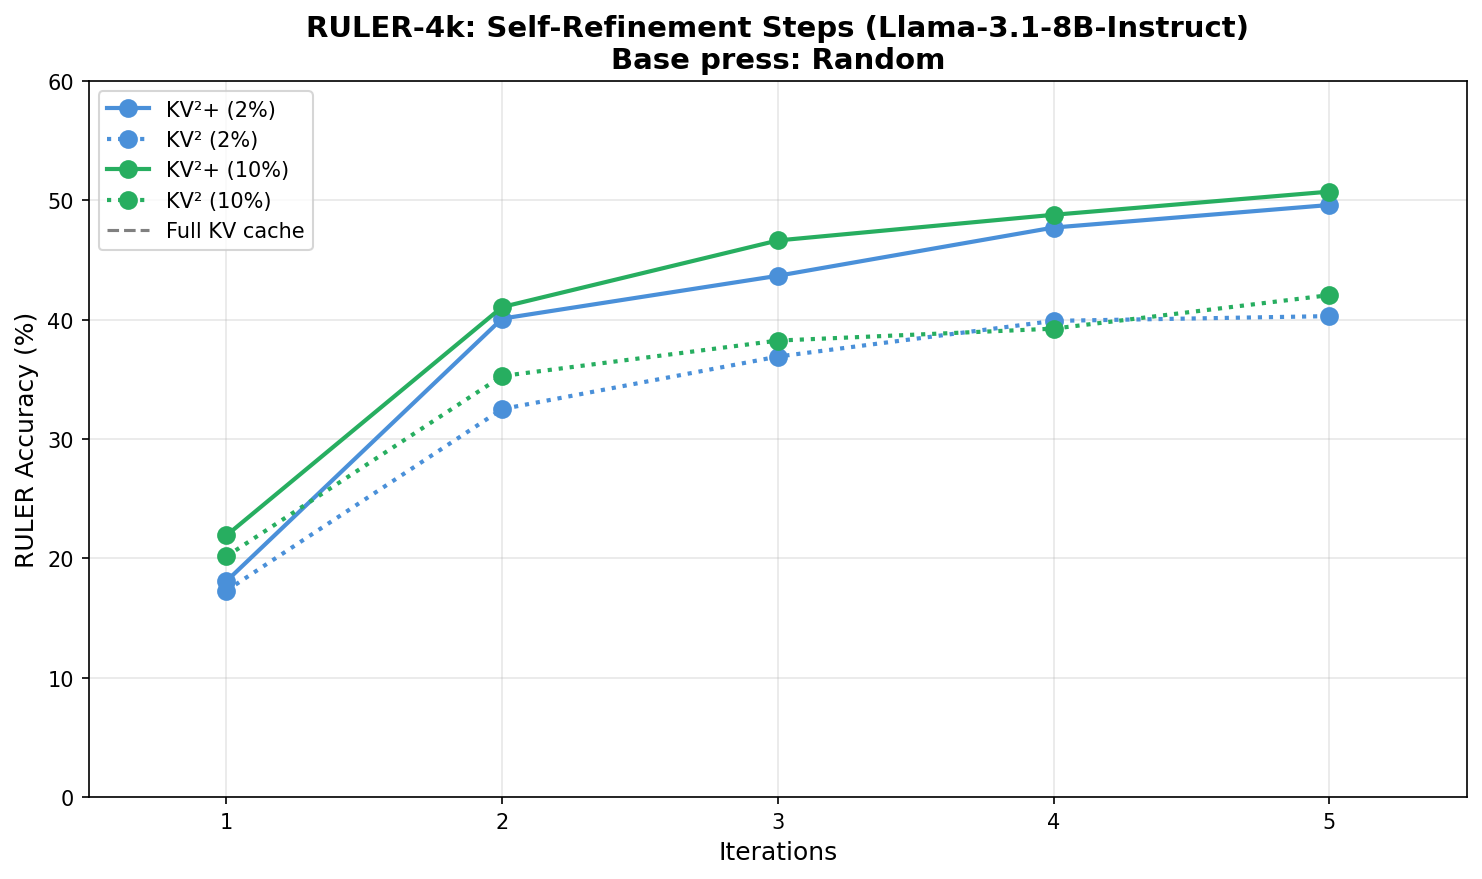
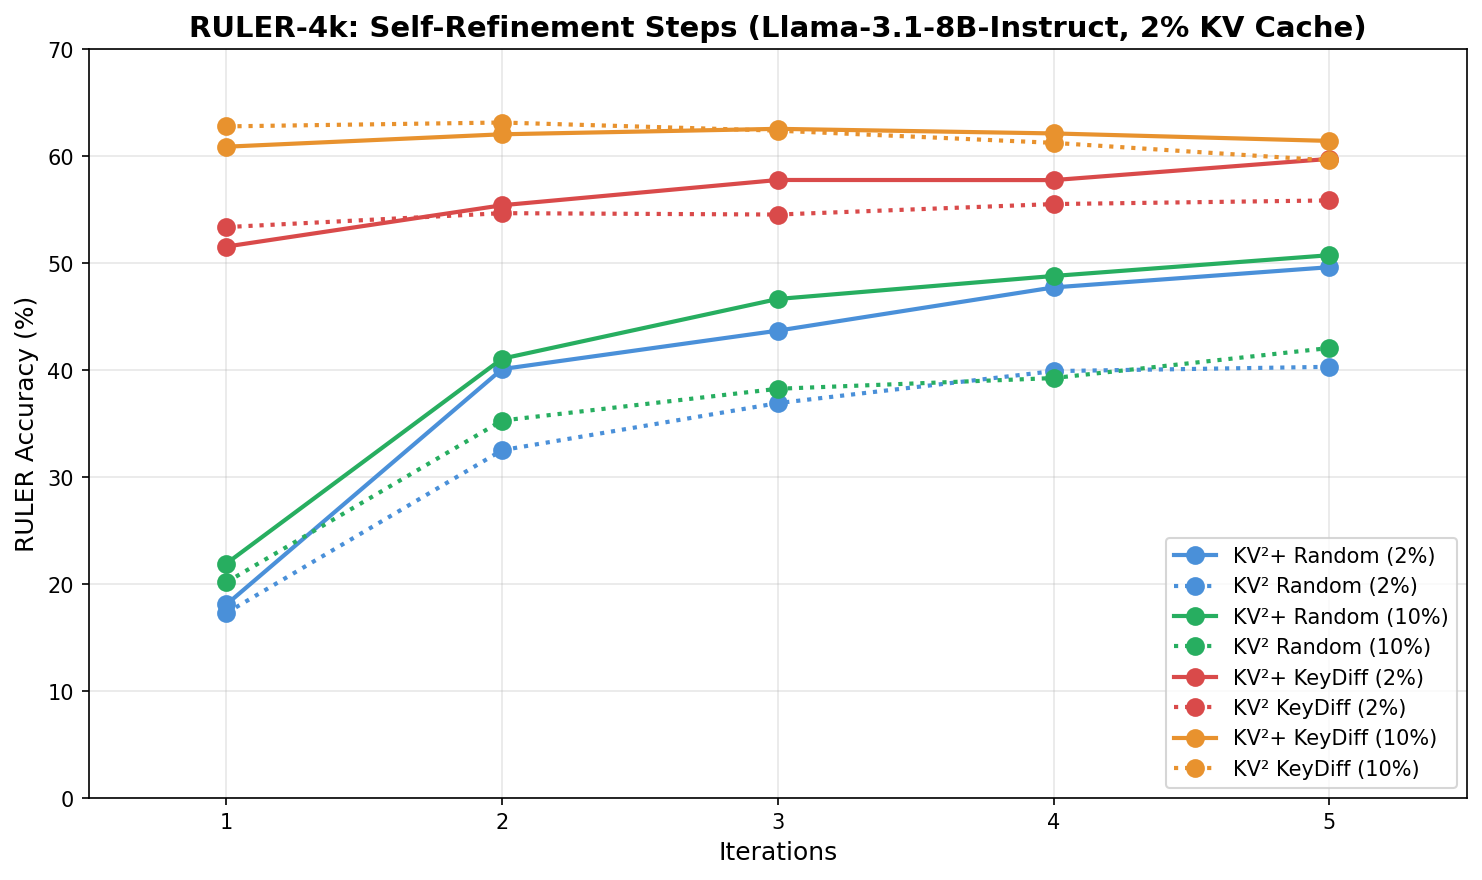
feat: move plot files

diff --git a/plots/plot_iterative_ruler.py b/plots/plot_iterative_ruler.py
@@ -1,28 +1,36 @@
 #!/usr/bin/env python3
 """
 Plot RULER accuracy vs number of self-refinement iterations (1–5).
-Data from the second table in iterative_ruler.tex (Random 2% and Random 10%).
-Four lines: KV²+ and KV² for 2% and 10%; blue for 2%, green for 10%;
-KV²+ solid, KV² dotted.
+Data from iterative_ruler.tex. Eight lines total:
+  Random:  blue (2%), green (10%); KV²+ solid, KV² dotted
+  KeyDiff: red  (2%), orange(10%); KV²+ solid, KV² dotted
 Run: python plot_iterative_ruler.py
 """
 
 import matplotlib.pyplot as plt
 
 # =============================================================================
-# DATA FROM iterative_ruler.tex (second table: Self-Refinement Steps)
+# DATA FROM iterative_ruler.tex
 # =============================================================================
 # X = iterations 1–5, Y = Avg. (RULER accuracy %)
 
 ITERATIONS = [1, 2, 3, 4, 5]
 
 # Random 2%: KV² and KV²+
-KV2_2PCT = [17.3, 32.51, 36.91, 39.90, 40.30]
-KV2_PLUS_2PCT = [18.09, 40.09, 43.68, 47.72, 49.61]
+KV2_RAND_2PCT = [17.3, 32.51, 36.91, 39.90, 40.30]
+KV2_PLUS_RAND_2PCT = [18.09, 40.09, 43.68, 47.72, 49.61]
 
 # Random 10%: KV² and KV²+
-KV2_10PCT = [20.17, 35.28, 38.25, 39.25, 42.06]
-KV2_PLUS_10PCT = [21.92, 41.06, 46.64, 48.79, 50.73]
+KV2_RAND_10PCT = [20.17, 35.28, 38.25, 39.25, 42.06]
+KV2_PLUS_RAND_10PCT = [21.92, 41.06, 46.64, 48.79, 50.73]
+
+# KeyDiff 2%: KV² and KV²+
+KV2_KD_2PCT = [53.36, 54.66, 54.53, 55.51, 55.85]
+KV2_PLUS_KD_2PCT = [51.54, 55.40, 57.76, 57.75, 59.73]
+
+# KeyDiff 10%: KV² and KV²+
+KV2_KD_10PCT = [62.77, 63.13, 62.37, 61.23, 59.59]
+KV2_PLUS_KD_10PCT = [60.87, 62.03, 62.54, 62.11, 61.41]
 
 FULL_SCORE = 95.61  # Full KV cache baseline (Llama-3.1-8B-Instruct)
 
@@ -34,9 +42,10 @@ FIGSIZE = (10, 6)
 XLABEL = "Iterations"
 YLABEL = "RULER Accuracy (%)"
 
-# Blue for 2%, green for 10%
-COLOR_2PCT = "#4A90D9"
-COLOR_10PCT = "#27AE60"
+COLOR_RAND_2PCT = "#4A90D9"
+COLOR_RAND_10PCT = "#27AE60"
+COLOR_KD_2PCT = "#D94A4A"
+COLOR_KD_10PCT = "#E8922E"
 
 # =============================================================================
 # PLOTTING
@@ -46,70 +55,43 @@ COLOR_10PCT = "#27AE60"
 def main():
     plt.figure(figsize=FIGSIZE)
 
-    # KV²+ 2% — solid blue
-    plt.plot(
-        ITERATIONS,
-        KV2_PLUS_2PCT,
-        label="KV²+ (2%)",
-        color=COLOR_2PCT,
-        linestyle="-",
-        marker="o",
-        markersize=8,
-        linewidth=2,
-    )
-    # KV² 2% — dotted blue
-    plt.plot(
-        ITERATIONS,
-        KV2_2PCT,
-        label="KV² (2%)",
-        color=COLOR_2PCT,
-        linestyle=":",
-        marker="o",
-        markersize=8,
-        linewidth=2,
-    )
-    # KV²+ 10% — solid green
-    plt.plot(
-        ITERATIONS,
-        KV2_PLUS_10PCT,
-        label="KV²+ (10%)",
-        color=COLOR_10PCT,
-        linestyle="-",
-        marker="o",
-        markersize=8,
-        linewidth=2,
-    )
-    # KV² 10% — dotted green
-    plt.plot(
-        ITERATIONS,
-        KV2_10PCT,
-        label="KV² (10%)",
-        color=COLOR_10PCT,
-        linestyle=":",
-        marker="o",
-        markersize=8,
-        linewidth=2,
-    )
+    mk = dict(marker="o", markersize=8, linewidth=2)
 
-    plt.axhline(
-        y=FULL_SCORE,
-        color="gray",
-        linestyle="--",
-        linewidth=1.5,
-        label="Full KV cache",
-    )
+    # Random 2% — blue
+    plt.plot(ITERATIONS, KV2_PLUS_RAND_2PCT, label="KV²+ Random (2%)",
+             color=COLOR_RAND_2PCT, linestyle="-", **mk)
+    plt.plot(ITERATIONS, KV2_RAND_2PCT, label="KV² Random (2%)",
+             color=COLOR_RAND_2PCT, linestyle=":", **mk)
+
+    # Random 10% — green
+    plt.plot(ITERATIONS, KV2_PLUS_RAND_10PCT, label="KV²+ Random (10%)",
+             color=COLOR_RAND_10PCT, linestyle="-", **mk)
+    plt.plot(ITERATIONS, KV2_RAND_10PCT, label="KV² Random (10%)",
+             color=COLOR_RAND_10PCT, linestyle=":", **mk)
+
+    # KeyDiff 2% — red
+    plt.plot(ITERATIONS, KV2_PLUS_KD_2PCT, label="KV²+ KeyDiff (2%)",
+             color=COLOR_KD_2PCT, linestyle="-", **mk)
+    plt.plot(ITERATIONS, KV2_KD_2PCT, label="KV² KeyDiff (2%)",
+             color=COLOR_KD_2PCT, linestyle=":", **mk)
+
+    # KeyDiff 10% — orange
+    plt.plot(ITERATIONS, KV2_PLUS_KD_10PCT, label="KV²+ KeyDiff (10%)",
+             color=COLOR_KD_10PCT, linestyle="-", **mk)
+    plt.plot(ITERATIONS, KV2_KD_10PCT, label="KV² KeyDiff (10%)",
+             color=COLOR_KD_10PCT, linestyle=":", **mk)
 
     plt.xlabel(XLABEL, fontsize=12)
     plt.ylabel(YLABEL, fontsize=12)
     plt.title(
-        "RULER-4k: Self-Refinement Steps (Llama-3.1-8B-Instruct)\nBase press: Random",
+        "RULER-4k: Self-Refinement Steps (Llama-3.1-8B-Instruct, 2% KV Cache)",
         fontsize=14,
         fontweight="bold",
     )
     plt.legend(loc="best", fontsize=10)
     plt.grid(True, alpha=0.3)
     plt.xlim(0.5, 5.5)
-    plt.ylim(0, 60)
+    plt.ylim(0, 70)
     plt.xticks(ITERATIONS)
 
     plt.tight_layout()

diff --git a/plots/iterative_ruler.tex b/plots/iterative_ruler.tex
@@ -66,7 +66,7 @@ Full
 
 
 \midrule
-\multicolumn{15}{c}{\textit{KeyDiff}} \\
+\multicolumn{15}{c}{\textit{KeyDiff 2\%}} \\
 \midrule
     
 KV²(KeyDiff 2\%) 
@@ -78,14 +78,90 @@ KV²(KeyDiff 2\%)
     & 29.27
     & 53.36 \\
 
-KV²(KeyDiff 5\%) 
-    & 15.81 & 71.33 
-    & 83.33 & 0.0 & 0.0
+KV²(KeyDiff 2 $\times$ 2\%) 
+    & 15.35 & 74.0 
+    & 79.63 & 0.0 & 0.0 
+    & 94.74 & 96.05 
+    & 100.0 & 98.48 & 83.33 
+    & 17.02 & 15.91 
+    & 36.1
+    & 54.66 \\
+
+KV²(KeyDiff 3 $\times$ 2\%) 
+    & 15.81 & 75.33 
+    & 74.07 & 0.0 & 0.0 
+    & 97.37 & 96.49 
+    & 100.0 & 100.0 & 92.86
+    & 19.15 & 15.91 
+    & 21.95
+    & 54.53 \\
+
+KV²(KeyDiff 4 $\times$ 2\%) 
+    & 16.51 & 76.67 
+    & 74.07 & 0.0 & 0.0 
+    & 98.25 & 96.05 
+    & 100.0 & 100.0 & 95.24 
+    & 19.15 & 15.91 
+    & 29.76
+    & 55.51 \\
+
+KV²(KeyDiff 5 $\times$ 2\%) 
+    & 15.58 & 77.33 
+    & 70.37 & 0.0 & 0.0 
+    & 96.05 & 96.49 
+    & 100.0 & 98.48 & 100.0 
+    & 14.89 & 22.73 
+    & 34.15
+    & 55.85 \\
+
+KV²+(KeyDiff 2\%) 
+    & 13.02 & 74.67 
+    & 59.26 & 0.0 & 0.0 
+    & 90.79 & 92.11 
+    & 100.0 & 95.45 & 78.57 
+    & 17.02 & 15.91 
+    & 33.17
+    & 51.54 \\
+
+KV²+(KeyDiff 2 $\times$ 2\%) 
+    & 12.56 & 78.0 
+    & 75.93 & 0.0 & 0.0 
+    & 96.49 & 92.54 
+    & 100.0 & 100.0 & 83.33 
+    & 21.28 & 18.18 
+    & 41.95 
+    & 55.40 \\
+
+KV²+(KeyDiff 3 $\times$ 2\%) 
+    & 14.42 & 77.33 
+    & 77.78 & 0.0 & 0.0 
+    & 97.81 & 97.81 
+    & 100.0 & 98.48 & 92.86 
+    & 19.15 & 18.18 
+    & 57.07
+    & 57.76 \\
+
+KV²+(KeyDiff 4 $\times$ 2\%) 
+    & 18.37 & 80.67 
+    & 85.19 & 2.7 & 0.0 
+    & 97.81 & 97.81 
+    & 100.0 & 93.94 & 85.71 
+    & 17.02 & 15.91 
+    & 55.61
+    & 57.75 \\
+
+KV²+(KeyDiff 5 $\times$ 2\%) 
+    & 18.37 & 80.0 
+    & 87.04 & 2.7 & 0.0 
     & 98.25 & 98.68 
-    & 100.0 & 98.48 & 100.0
-    & 21.28 & 13.64
-    & 91.71 
-    & 60.96 \\
+    & 100.0 & 95.45 & 100.0 
+    & 19.15 & 15.91 
+    & 60.98 
+    & 59.73 \\
+
+\midrule
+\multicolumn{15}{c}{\textit{KeyDiff 10\%}} \\
+\midrule
 
 KV²(KeyDiff 10\%) 
     & 10.23 & 82.67 
@@ -97,13 +173,85 @@ KV²(KeyDiff 10\%)
     & 62.77 \\
 
 KV²(KeyDiff 2 $\times$ 10\%) 
-    & 14.18 & 83.33 
-    & 94.44 & 2.7 & 2.17
-    & 98.25 & 85.09 
-    & 100.0 & 95.45 & 100.0
-    & 27.66 & 22.73
-    & 94.63 
+    & 14.19 & 83.33 
+    & 94.44 & 2.7 & 2.17 
+    & 98.25 & 85.09
+    & 100.0 & 95.45 & 100.0 
+    & 27.66 & 22.73 
+    & 94.63
     & 63.13 \\
+
+KV²(KeyDiff 3 $\times$ 10\%) 
+    & 17.44 & 86.0 
+    & 92.59 & 5.41 & 2.17 
+    & 97.81 & 81.14 
+    & 100.0 & 95.45 & 100.0 
+    & 21.28 & 15.91 
+    & 95.61
+    & 62.37 \\
+
+KV²(KeyDiff 4 $\times$ 10\%) 
+    & 20.47 & 84.0 
+    & 92.59 & 5.41 & 4.35 
+    & 95.18 & 74.56 
+    & 100.0 & 98.48 & 97.62 
+    & 12.77 & 15.91 
+    & 94.63
+    & 61.23 \\
+
+KV²(KeyDiff 5 $\times$ 10\%) 
+    & 18.37 & 82.67 
+    & 92.59 & 5.41 & 4.35 
+    & 93.86 & 58.33 
+    & 100.0 & 100.0 & 95.24 
+    & 12.77 & 15.91 
+    & 95.12
+    & 59.59 \\
+
+KV²+(KeyDiff 2\%) 
+    & 15.12 & 79.33 
+    & 92.59 & 2.7 & 0.0 
+    & 98.68 & 85.09 
+    & 100.0 & 92.42 & 95.24
+    & 19.15 & 15.91 
+    & 95.12
+    & 60.87 \\
+
+KV²+(KeyDiff 2 $\times$ 10\%) 
+    & 19.3 & 79.33 
+    & 100.0 & 5.41 & 0.0 
+    & 94.74 & 79.82 
+    & 100.0 & 98.48 & 100.0 
+    & 17.02 & 18.18 
+    & 94.15
+    & 62.03 \\
+
+KV²+(KeyDiff 3 $\times$ 10\%) 
+    & 20.7 & 80.0 
+    & 98.15 & 5.41 & 4.35 
+    & 93.86 & 75.88 
+    & 100.0 & 98.48 & 100.0 
+    & 23.4 & 18.18 
+    & 94.63
+    & 62.54 \\
+
+KV²+(KeyDiff 4 $\times$ 10\%) 
+    & 24.65 & 80.67 
+    & 94.44 & 13.51 & 4.35 
+    & 92.98 & 71.49 
+    & 100.0 & 98.48 & 97.62 
+    & 19.15 & 15.91 
+    & 94.15
+    & 62.11 \\
+
+KV²+(KeyDiff 5 $\times$ 10\%) 
+    & 22.56 & 80.0 
+    & 90.74 & 16.22 & 6.52 
+    & 90.35 & 68.86 
+    & 100.0 & 98.48 & 90.48 
+    & 21.28 & 18.18 
+    & 94.63
+    & 61.41 \\
 
 
 \bottomrule
